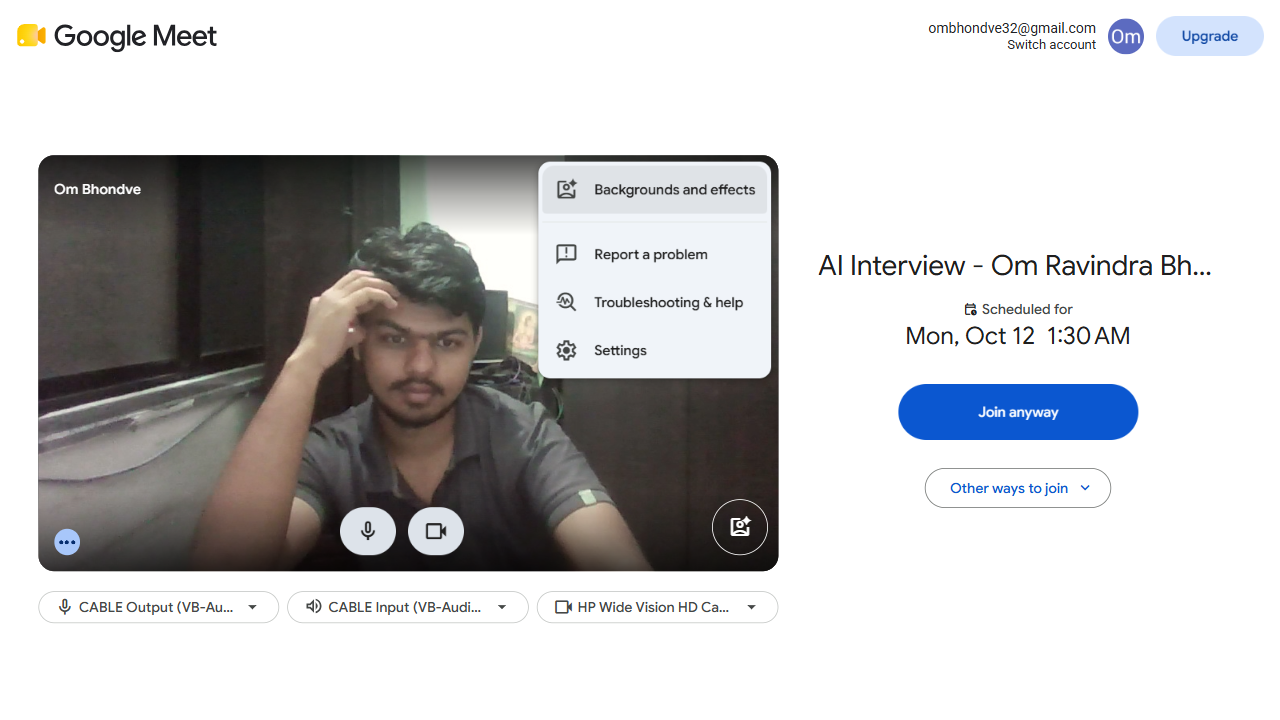
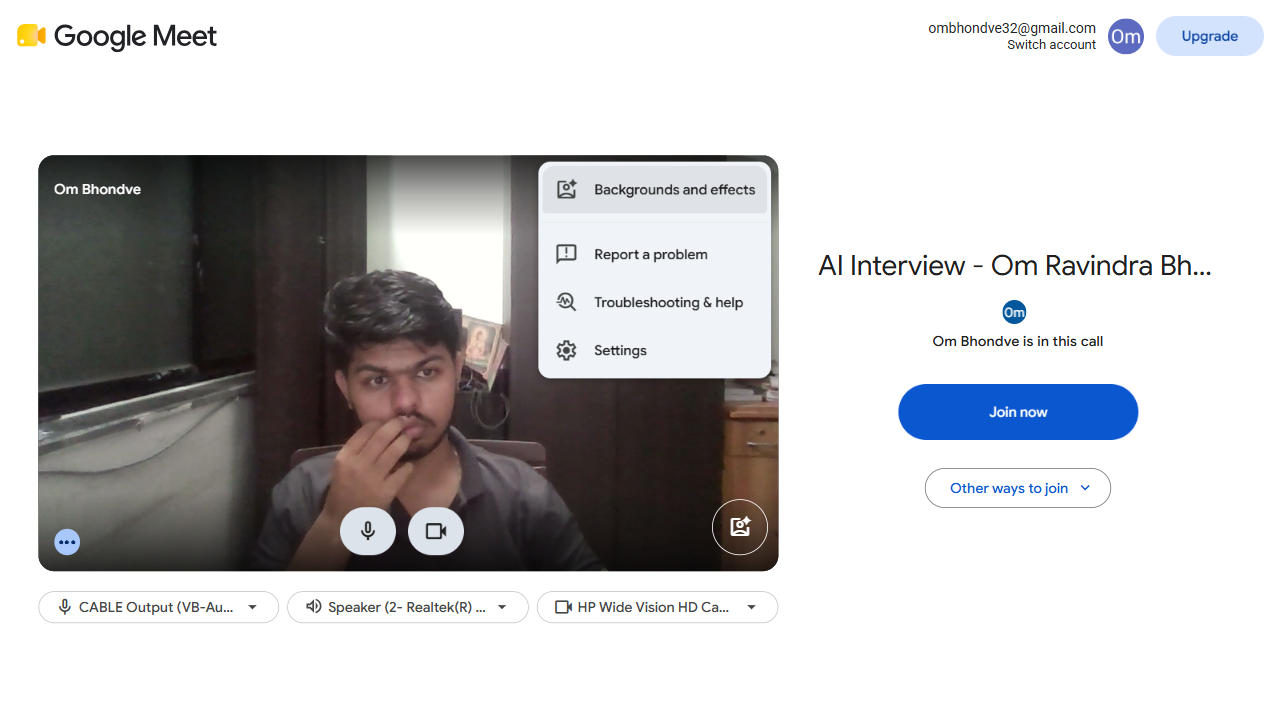
fix(meeting-bot): add 'Join anyway' handling and decouple audio capture via 16ch virtual cable

diff --git a/meeting-bot/app/meet.py b/meeting-bot/app/meet.py
@@ -77,6 +77,12 @@ def score_device_match(target_label: str, candidate_label: str, device_type: str
         if target_is_cable and not cand_is_cable:
             return 0.0
 
+    # SAFETY CHECK 3: Differentiate 16ch virtual cable from standard VB-Cable
+    if "16ch" in target_raw and "16ch" not in candidate_raw:
+        return 0.0
+    if "16ch" not in target_raw and "16ch" in candidate_raw:
+        return 0.0
+
     norm_target = normalize_audio_label(target_label)
     norm_candidate = normalize_audio_label(candidate_label)
 
@@ -878,10 +884,10 @@ class MeetNavigator:
 
     async def get_join_action(self) -> Optional[str]:
         """
-        Check if 'Join now' or 'Ask to join' is visible on the pre-join page.
+        Check if 'Join now', 'Join anyway', or 'Ask to join' is visible on the pre-join page.
         Returns 'JOIN_NOW', 'ASK_TO_JOIN', or None.
         """
-        # 1. Direct join selectors
+        # 1. Direct join selectors (including 'Join anyway')
         join_now_selectors = [
             'button:has-text("Join now")',
             'span:has-text("Join now")',
@@ -889,6 +895,12 @@ class MeetNavigator:
             'button[aria-label*="Join now" i]',
             '[role="button"][aria-label*="Join now" i]',
             'button:text-is("Join now")',
+            'button:has-text("Join anyway")',
+            'span:has-text("Join anyway")',
+            'div[role="button"]:has-text("Join anyway")',
+            'button[aria-label*="Join anyway" i]',
+            '[role="button"][aria-label*="Join anyway" i]',
+            'button:text-is("Join anyway")',
             'button:has-text("Join")',
         ]
         for sel in join_now_selectors:
@@ -920,7 +932,7 @@ class MeetNavigator:
 
     async def click_join(self) -> Optional[str]:
         """
-        Identify and click 'Join now' or 'Ask to join'.
+        Identify and click 'Join now', 'Join anyway', or 'Ask to join'.
         Returns:
             'JOIN_NOW': Clicked direct join button
             'ASK_TO_JOIN': Clicked admission request button
@@ -928,7 +940,7 @@ class MeetNavigator:
         """
         logger.info("[MeetingBot] Inspecting pre-join join control...")
 
-        # 1. First priority: Check for direct "Join now"
+        # 1. First priority: Check for direct "Join now" or "Join anyway"
         join_now_selectors = [
             'button:has-text("Join now")',
             'span:has-text("Join now")',
@@ -936,16 +948,24 @@ class MeetNavigator:
             'button[aria-label*="Join now" i]',
             '[role="button"][aria-label*="Join now" i]',
             'button:text-is("Join now")',
+            # "Join anyway" selectors
+            'button:has-text("Join anyway")',
+            'span:has-text("Join anyway")',
+            'div[role="button"]:has-text("Join anyway")',
+            'button[aria-label*="Join anyway" i]',
+            '[role="button"][aria-label*="Join anyway" i]',
+            'button:text-is("Join anyway")',
             # Fallback for plain "Join" button if present
             'button:text-matches("^Join$", "i")',
             'div[role="button"]:text-matches("^Join$", "i")',
+            'button:has-text("Join")',
         ]
         for selector in join_now_selectors:
             locator = self.page.locator(selector)
             try:
                 if await locator.count() > 0 and await locator.first.is_visible():
                     await locator.first.click(timeout=5000)
-                    logger.info(f"[MeetingBot] Detected and clicked 'Join now' via: {selector}")
+                    logger.info(f"[MeetingBot] Detected and clicked join button via: {selector}")
                     return "JOIN_NOW"
             except Exception as e:
                 logger.debug(f"[MeetingBot] Join now selector {selector} note: {e}")

diff --git a/meeting-bot/tests/test_admission.py b/meeting-bot/tests/test_admission.py
@@ -38,6 +38,36 @@ async def test_navigator_detects_join_now():
 
 
 @pytest.mark.asyncio
+async def test_navigator_detects_join_anyway():
+    page = MagicMock()
+    # Mock locator for 'Join anyway' to be visible
+    loc_join_anyway = AsyncMock()
+    loc_join_anyway.count.return_value = 1
+    loc_join_anyway.is_visible.return_value = True
+
+    loc_empty = AsyncMock()
+    loc_empty.count.return_value = 0
+    loc_empty.is_visible.return_value = False
+
+    def locator_side_effect(selector):
+        if "Join anyway" in selector:
+            return loc_join_anyway
+        return loc_empty
+
+    page.locator.side_effect = locator_side_effect
+
+    nav = MeetNavigator(page)
+    # Check get_join_action
+    action_type = await nav.get_join_action()
+    assert action_type == "JOIN_NOW"
+
+    # Check click_join
+    action = await nav.click_join()
+    assert action == "JOIN_NOW"
+    loc_join_anyway.first.click.assert_awaited()
+
+
+@pytest.mark.asyncio
 async def test_navigator_detects_ask_to_join():
     page = MagicMock()
     loc_ask = AsyncMock()

diff --git a/meeting-bot/app/audio_capture.py b/meeting-bot/app/audio_capture.py
@@ -211,6 +211,11 @@ class AudioCaptureService:
                     logger.info(f"[AudioCapture] Resolving configured capture device: '{search_name}'")
                     for dev in loopback_devices:
                         dev_clean = dev["name"].replace("[Loopback]", "").replace("[loopback]", "").strip().lower()
+                        # Strictly differentiate 16ch virtual cable from standard VB-Cable
+                        if "16ch" in clean_target and "16ch" not in dev_clean:
+                            continue
+                        if "16ch" not in clean_target and "16ch" in dev_clean:
+                            continue
                         # Match either cleaned device name or full substring
                         if clean_target in dev_clean or dev_clean in clean_target:
                             target_loopback = dev
